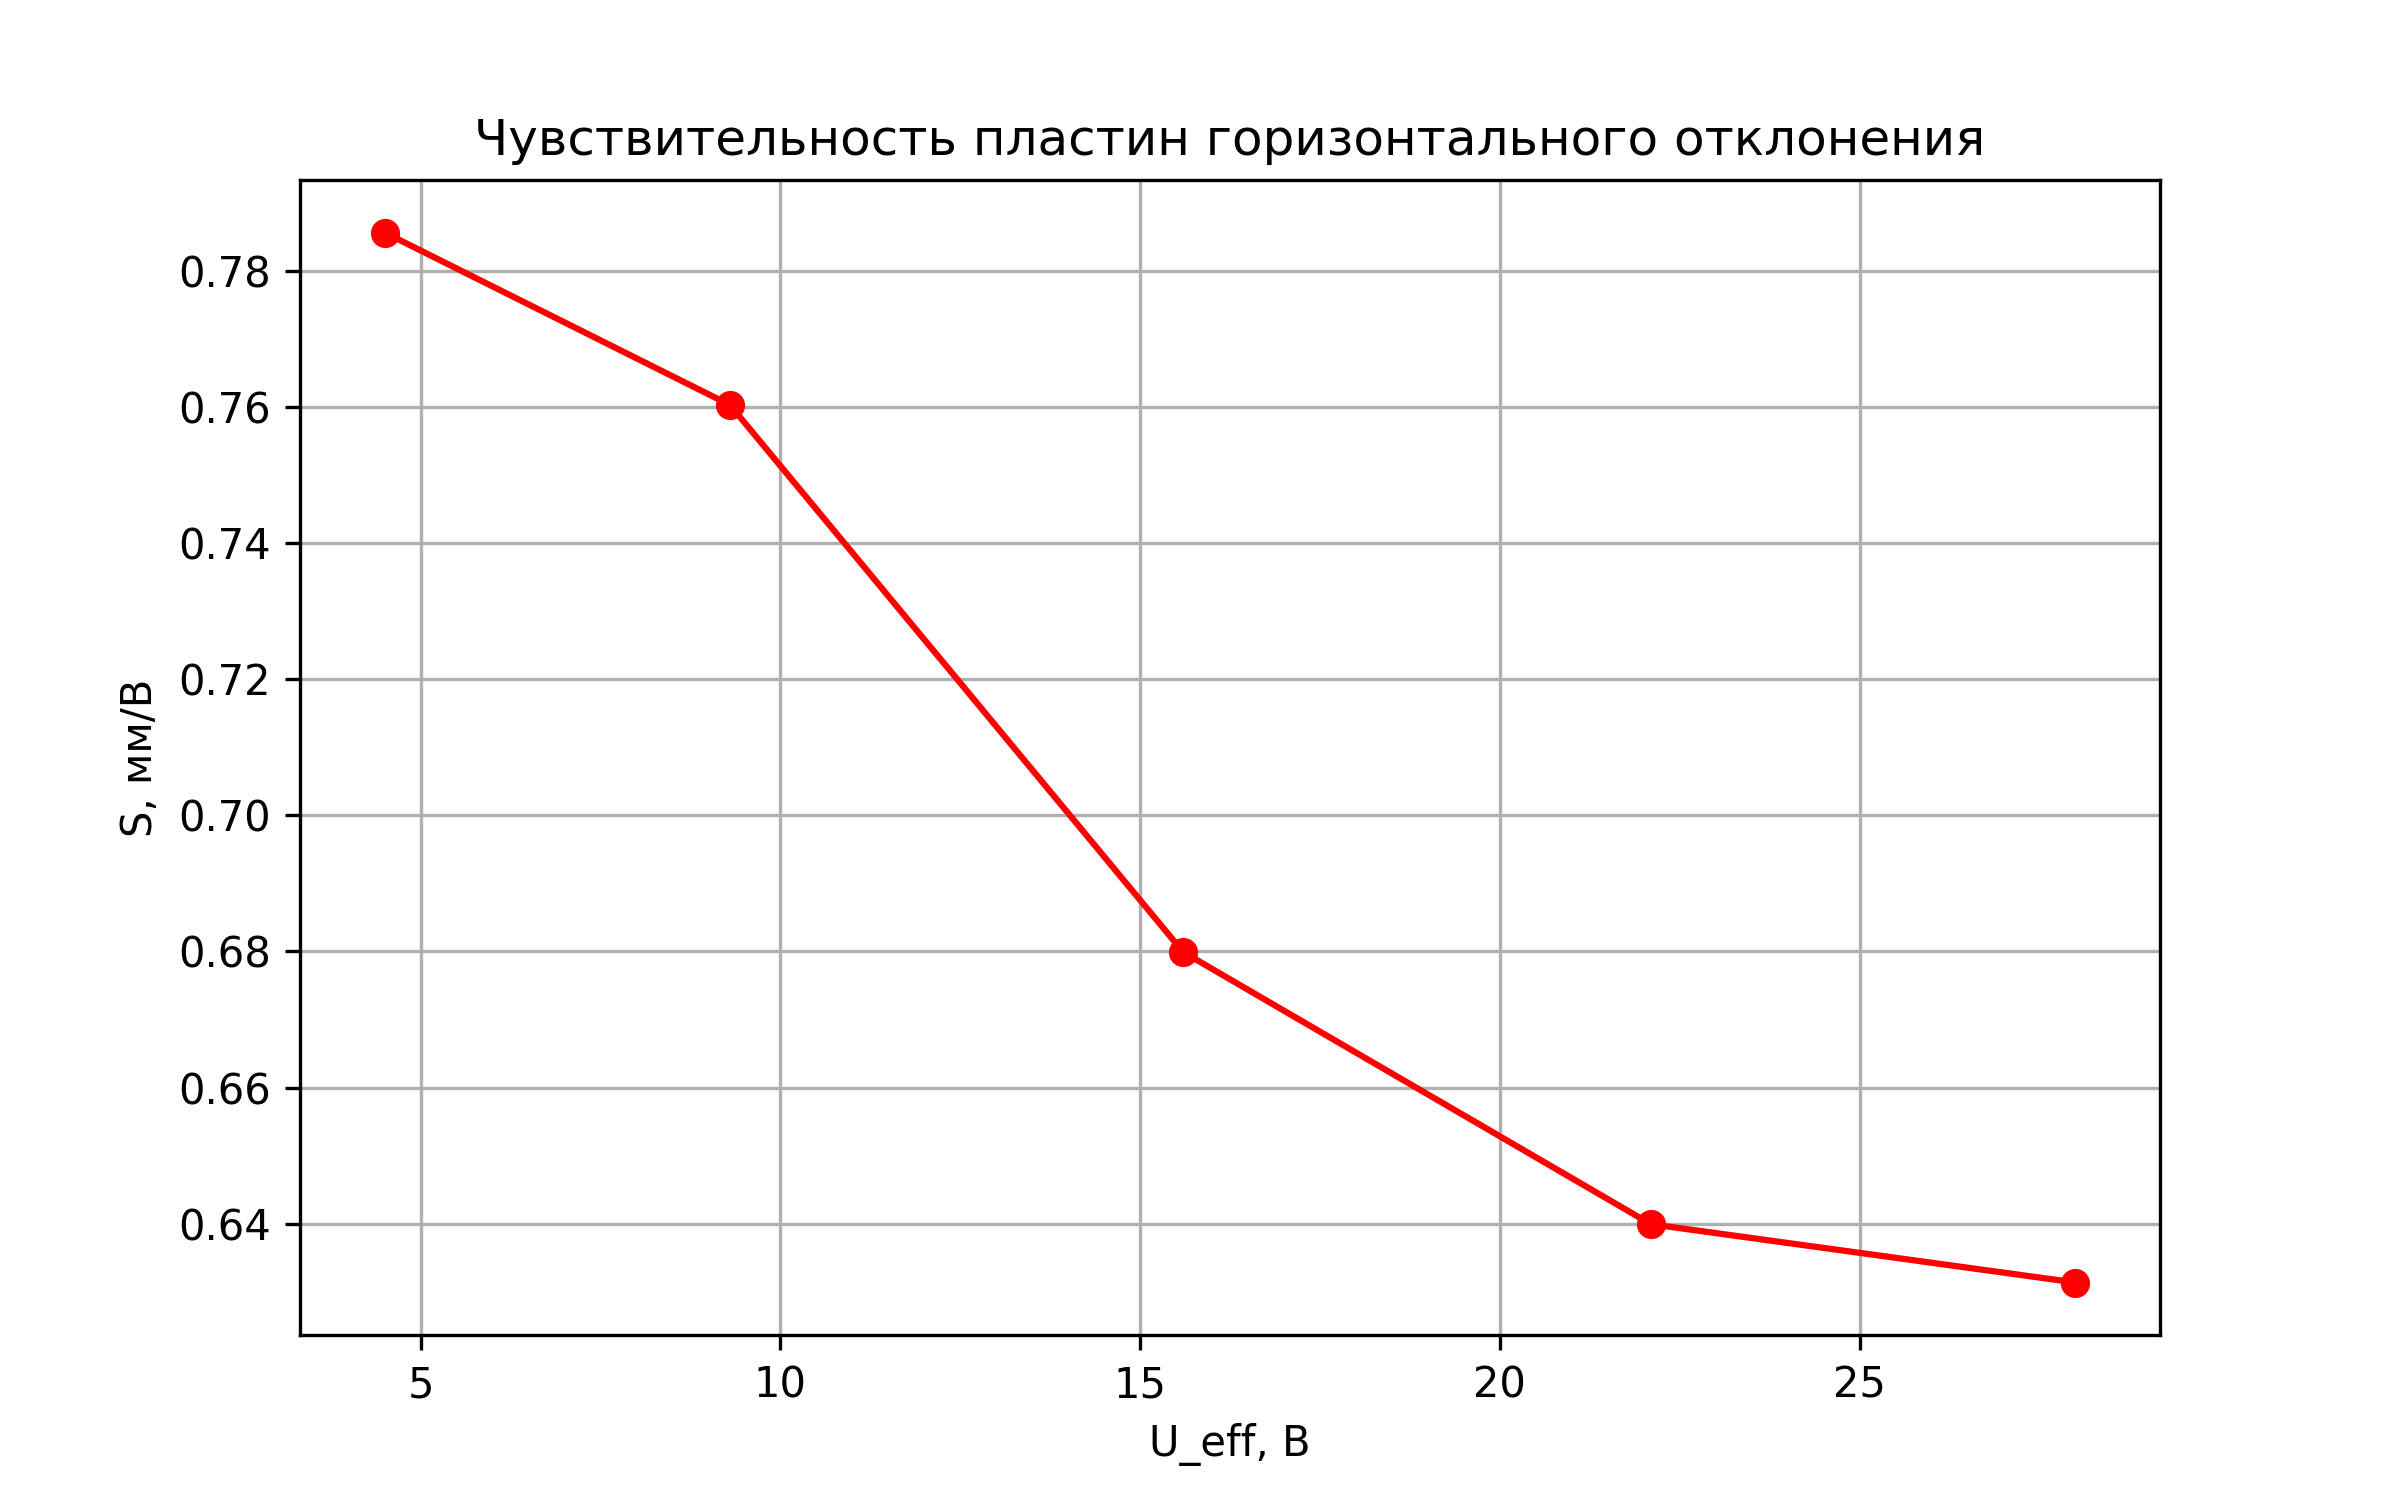
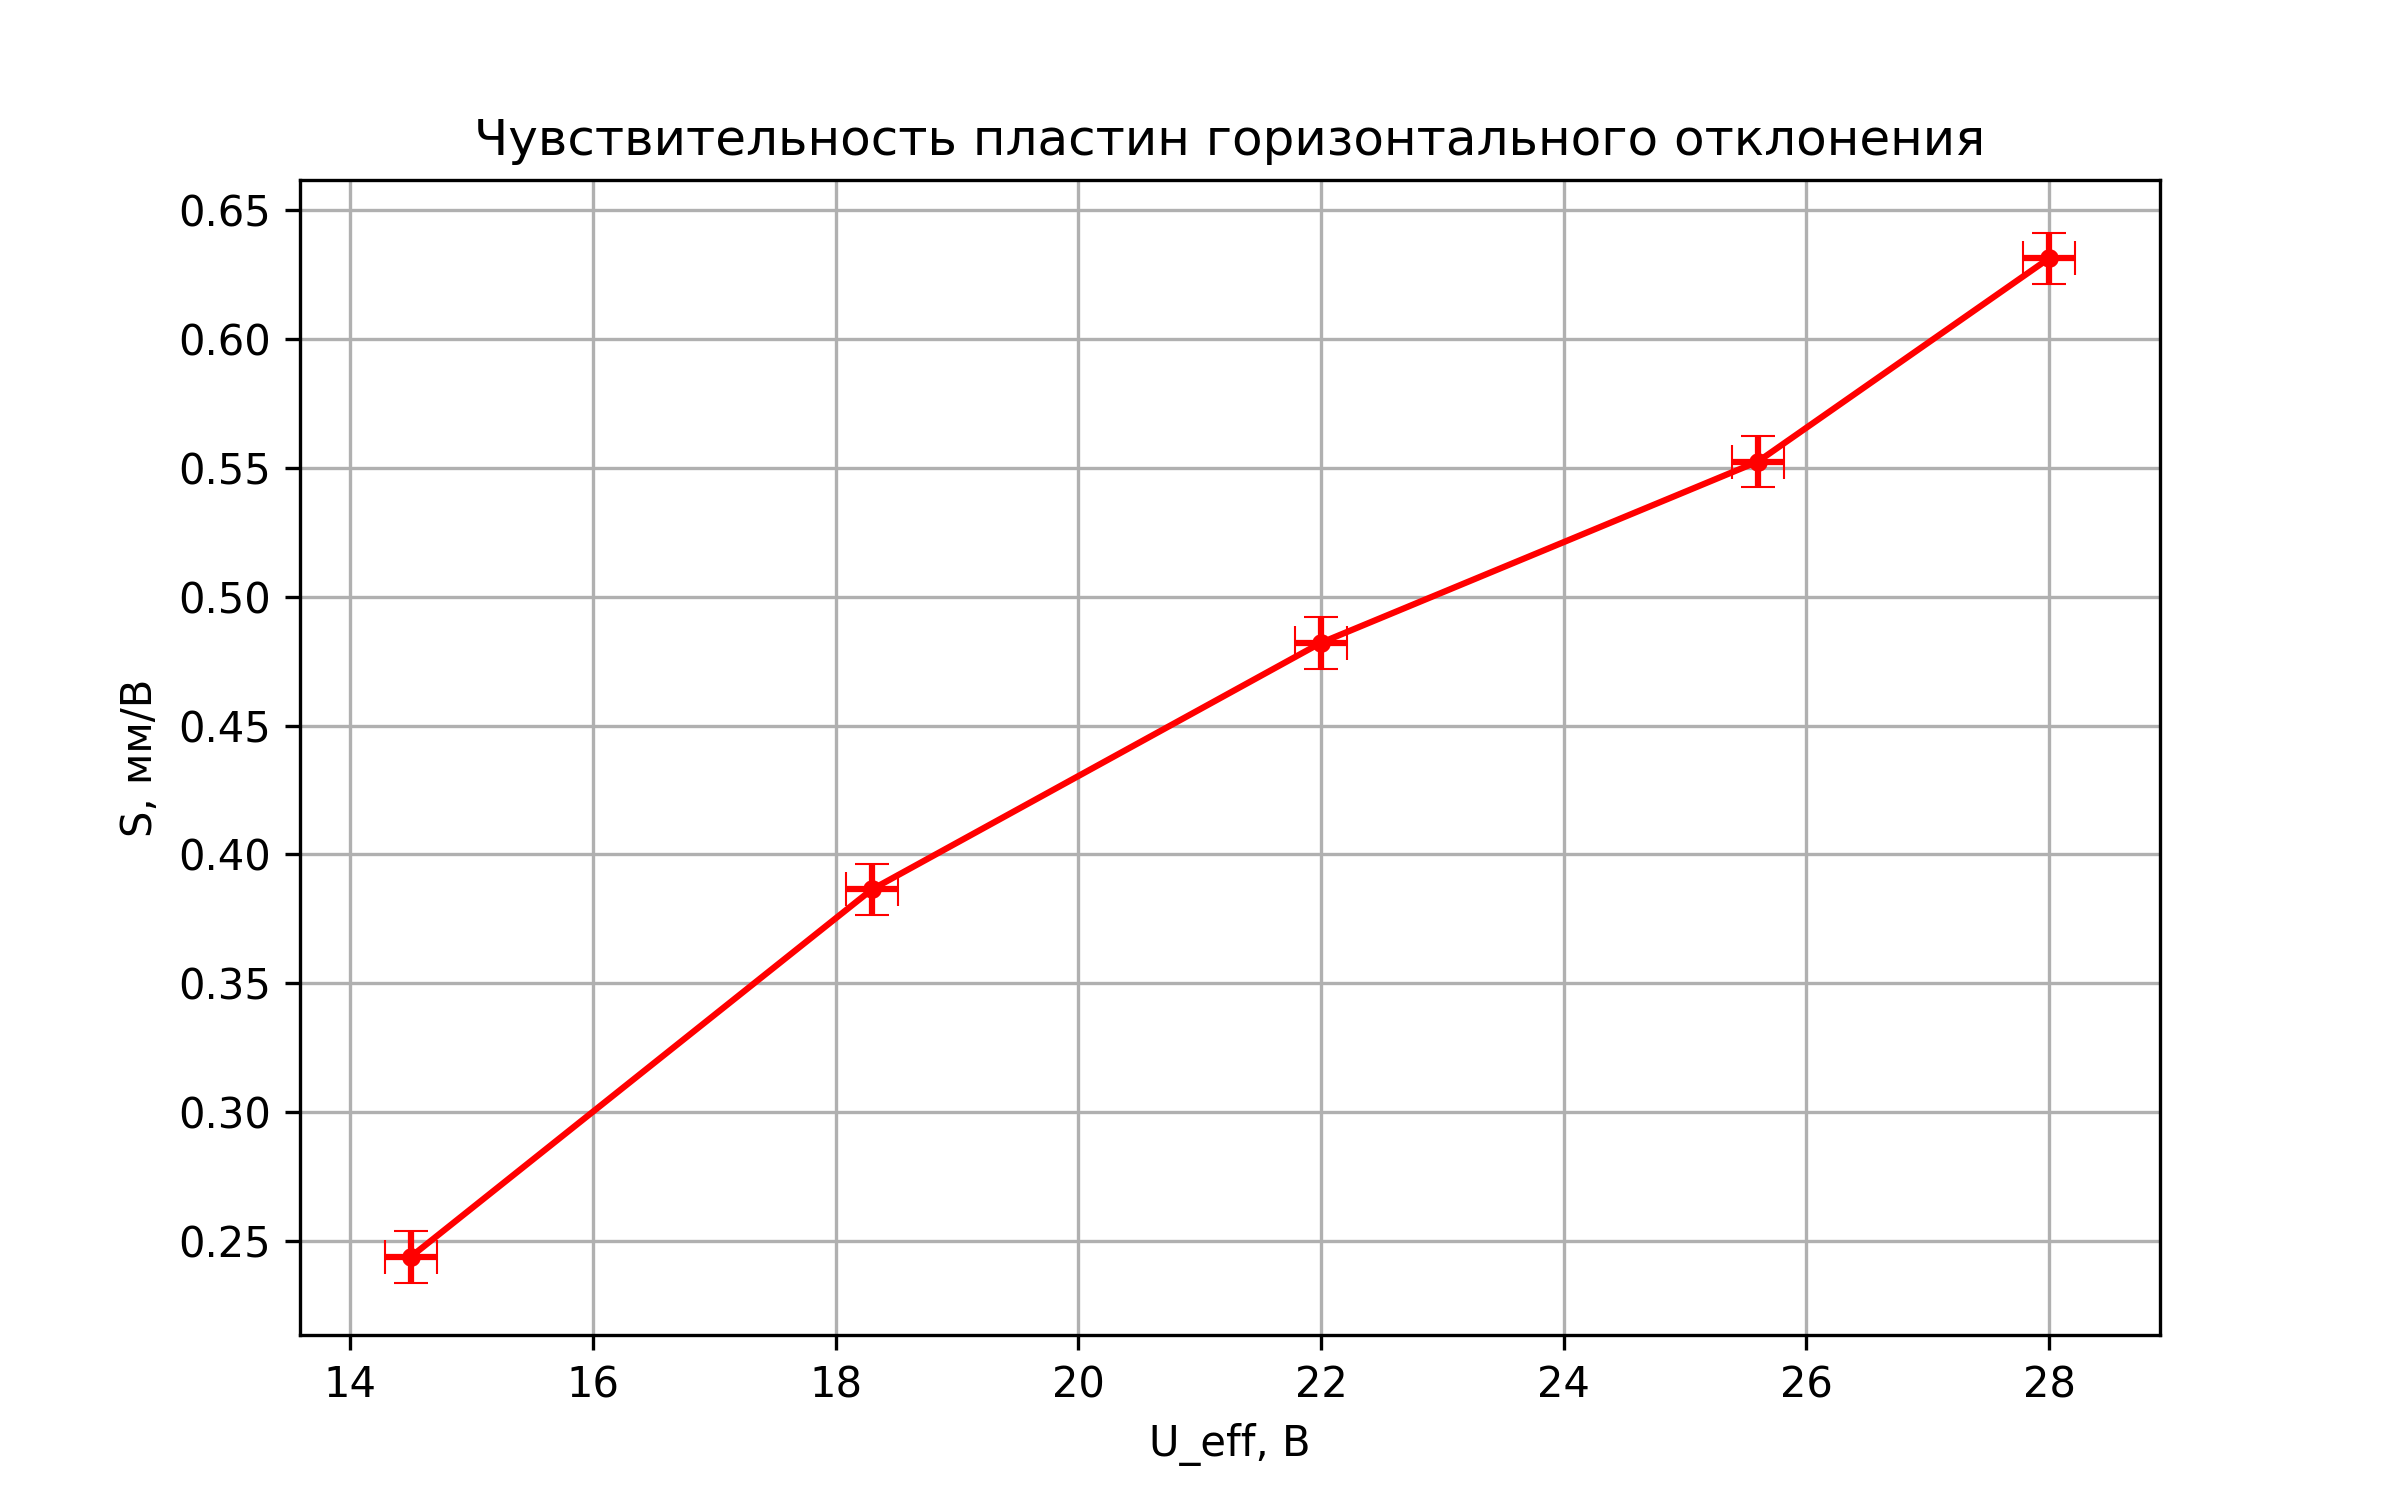
Погрешности на графиках

diff --git a/src/import math.py b/src/import math.py
@@ -3,55 +3,64 @@ import matplotlib.pyplot as plt
 import numpy as np
 import os
 
-# ============================================
 # Данные из протокола
-# ============================================
-
-# Таблица 1 (ПВО)
 L1 = [10, 20, 30, 40, 50]
 U1 = [5.6, 10.3, 16.8, 24.7, 31.4]
 
-# Таблица 2 (ПГО)
 L2 = [10, 20, 30, 40, 50]
-U2 = [4.5, 9.3, 15.6, 22.1, 28.0]
+U2 = [14.5, 18.3, 22.0, 25.6, 28.0]
 
-# Таблица 3 (макс. чувствительность)
 L3 = [10, 20, 30, 40, 50]
-U3 = [0.014, 0.020, 0.037, 0.050, 0.076]
+U3 = [0.040, 0.020, 0.010, 0.005, 0.0046]
 
-# Таблица 4 (Лиссажу)
-# отношения частот f_x/f_y, f_y (Гц)
+# Лиссажу
 ratios = [1, 0.5, 1/3, 2]
 f_y = [50, 100, 150, 25]
-# вычисляем f_x
 f_x_calc = [r * fy for r, fy in zip(ratios, f_y)]
-# для наглядности запишем полученные значения (все равны 50)
 print("f_x по фигурам Лиссажу:", f_x_calc)
 
-# ============================================
-# Функция вычисления чувствительности
-# ============================================
+# Расчёт чувствительности S = L / (2√2 * U)
 def sensitivity(L, U):
-    """S = L / (2√2 * U)"""
     return [l / (2 * math.sqrt(2) * u) for l, u in zip(L, U)]
 
 S1 = sensitivity(L1, U1)
 S2 = sensitivity(L2, U2)
 S3 = sensitivity(L3, U3)
 
-# ============================================
-# Создание папок для выходных данных
-# ============================================
+# Погрешности
+L_err = 0.5          # погрешность длины, мм
+U_rel_err = 0.01     # относительная погрешность напряжения 1%
+
+def compute_errors(L, U, S):
+    U_err = [u * U_rel_err for u in U]
+    S_err = []
+    for i in range(len(S)):
+        rel_err = math.sqrt((L_err / L[i])**2 + U_rel_err**2)
+        S_err.append(S[i] * rel_err)
+    return U_err, S_err
+
+U1_err, S1_err = compute_errors(L1, U1, S1)
+U2_err, S2_err = compute_errors(L2, U2, S2)
+U3_err, S3_err = compute_errors(L3, U3, S3)
+
+# Чтобы погрешности были одинаковыми для всех точек, возьмём средние значения
+U1_err_mean = np.mean(U1_err)
+S1_err_mean = np.mean(S1_err)
+U2_err_mean = np.mean(U2_err)
+S2_err_mean = np.mean(S2_err)
+U3_err_mean = np.mean(U3_err)
+S3_err_mean = np.mean(S3_err)
+
+# Создаём папки
 os.makedirs("output", exist_ok=True)
 os.makedirs("figures", exist_ok=True)
 
-# ============================================
-# Построение графиков S(U)
-# ============================================
-
-# График для ПВО
+# Построение графиков с линиями и одинаковыми погрешностями
+# График 1: ПВО
 plt.figure(figsize=(8,5))
-plt.plot(U1, S1, 'bo-', label='ПВО')
+plt.errorbar(U1, S1, xerr=U1_err_mean, yerr=S1_err_mean, fmt='bo-',
+             markersize=4, markeredgewidth=0.5, capsize=4, ecolor='red', 
+             label='ПВО')
 plt.xlabel('U_eff, В')
 plt.ylabel('S, мм/В')
 plt.title('Чувствительность пластин вертикального отклонения')
@@ -59,9 +68,11 @@ plt.grid(True)
 plt.savefig('figures/sensitivity_PVO.png', dpi=300)
 plt.show()
 
-# График для ПГО
+# График 2: ПГО
 plt.figure(figsize=(8,5))
-plt.plot(U2, S2, 'ro-', label='ПГО')
+plt.errorbar(U2, S2, xerr=U2_err_mean, yerr=S2_err_mean, fmt='ro-',
+             markersize=4, markeredgewidth=0.5, capsize=4, ecolor='red', 
+             label='ПГО')
 plt.xlabel('U_eff, В')
 plt.ylabel('S, мм/В')
 plt.title('Чувствительность пластин горизонтального отклонения')
@@ -69,9 +80,11 @@ plt.grid(True)
 plt.savefig('figures/sensitivity_PGO.png', dpi=300)
 plt.show()
 
-# График для максимальной чувствительности
+# График 3: максимальная чувствительность
 plt.figure(figsize=(8,5))
-plt.plot(U3, S3, 'go-', label='max S')
+plt.errorbar(U3, S3, xerr=U3_err_mean, yerr=S3_err_mean, fmt='go-',
+             markersize=4, markeredgewidth=0.5, capsize=4, ecolor='red', 
+             label='max S')
 plt.xlabel('U_eff, В')
 plt.ylabel('S, мм/В')
 plt.title('Максимальная чувствительность осциллографа')
@@ -79,10 +92,7 @@ plt.grid(True)
 plt.savefig('figures/sensitivity_max.png', dpi=300)
 plt.show()
 
-# ============================================
-# Генерация LaTeX-таблиц
-# ============================================
-
+# Генерация LaTeX-таблиц (без изменений)
 def write_latex_table(filename, caption, label, headers, data_rows):
     with open(f"output/{filename}", 'w', encoding='utf-8') as f:
         f.write("\\begin{table}[h]\n\\centering\n")
@@ -94,30 +104,24 @@ def write_latex_table(filename, caption, label, headers, data_rows):
             f.write(" & ".join(str(x) for x in row) + " \\\\\n")
         f.write("\\hline\n\\end{tabular}\n\\end{table}\n")
 
-# Таблица 1
 rows1 = [[L1[i], f"{U1[i]:.1f}", f"{S1[i]:.3f}"] for i in range(len(L1))]
 write_latex_table("table_PVO.tex", "Чувствительность пластин вертикального отклонения", "tab:pvo",
                   ["$L$, мм", "$U_{\\text{eff}}$, В", "$S$, мм/В"], rows1)
 
-# Таблица 2
 rows2 = [[L2[i], f"{U2[i]:.1f}", f"{S2[i]:.3f}"] for i in range(len(L2))]
 write_latex_table("table_PGO.tex", "Чувствительность пластин горизонтального отклонения", "tab:pgo",
                   ["$L$, мм", "$U_{\\text{eff}}$, В", "$S$, мм/В"], rows2)
 
-# Таблица 3
 rows3 = [[L3[i], f"{U3[i]:.4f}".replace('.', ','), f"{S3[i]:.1f}"] for i in range(len(L3))]
 write_latex_table("table_maxS.tex", "Максимальная чувствительность осциллографа", "tab:maxS",
                   ["$L$, мм", "$U_{\\text{eff}}$, В", "$S$, мм/В"], rows3)
 
-# Таблица 4 (Лиссажу) – среднее значение частоты
+# Таблица Лиссажу
 mean_fx = np.mean(f_x_calc)
-std_fx = np.std(f_x_calc, ddof=1)  # несмещённое стандартное отклонение
+std_fx = np.std(f_x_calc, ddof=1)
 n = len(f_x_calc)
-ci = 2.776 * std_fx / math.sqrt(n) if n > 1 else 0  # t для 4 измерений, P=0.95 (t=3.182 для n=4? уточню: для n=4, df=3, t=3.182, но мы используем 2.776 для n=5? Для n=4 правильнее t=3.182. Я посчитаю точно)
-
-# Коэффициент Стьюдента для n=4 (доверительная вероятность 0.95) = 3.182
-t_student = 3.182
-ci = t_student * std_fx / math.sqrt(n)
+t_student = 3.182   # для n=4, P=0.95
+ci = t_student * std_fx / math.sqrt(n) if n > 1 else 0
 
 rows4 = [["$f_x/f_y$", "$f_y$, Гц", "$f_x$, Гц"]]
 for i in range(len(ratios)):

diff --git a/src/output/table_maxS.tex b/src/output/table_maxS.tex
@@ -6,11 +6,11 @@
 \hline
 $L$, мм & $U_{\text{eff}}$, В & $S$, мм/В \\
 \hline
-10 & 0,0140 & 252.5 \\
+10 & 0,0400 & 88.4 \\
 20 & 0,0200 & 353.6 \\
-30 & 0,0370 & 286.7 \\
-40 & 0,0500 & 282.8 \\
-50 & 0,0760 & 232.6 \\
+30 & 0,0100 & 1060.7 \\
+40 & 0,0050 & 2828.4 \\
+50 & 0,0046 & 3843.0 \\
 \hline
 \end{tabular}
 \end{table}

diff --git a/src/output/table_PGO.tex b/src/output/table_PGO.tex
@@ -6,10 +6,10 @@
 \hline
 $L$, мм & $U_{\text{eff}}$, В & $S$, мм/В \\
 \hline
-10 & 4.5 & 0.786 \\
-20 & 9.3 & 0.760 \\
-30 & 15.6 & 0.680 \\
-40 & 22.1 & 0.640 \\
+10 & 14.5 & 0.244 \\
+20 & 18.3 & 0.386 \\
+30 & 22.0 & 0.482 \\
+40 & 25.6 & 0.552 \\
 50 & 28.0 & 0.631 \\
 \hline
 \end{tabular}
